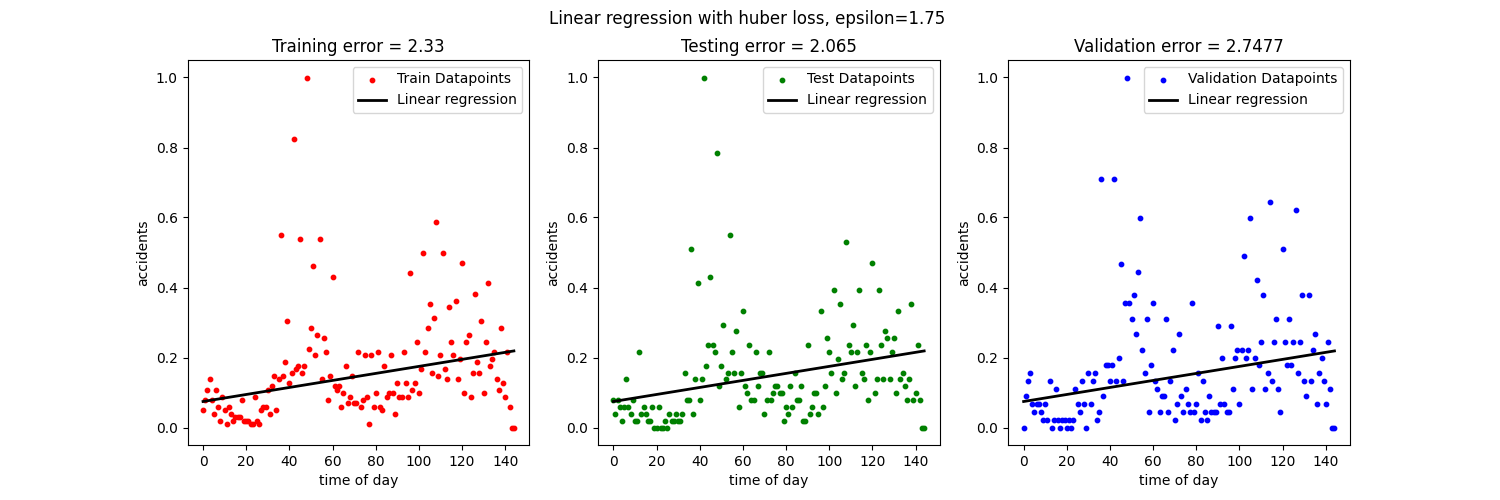
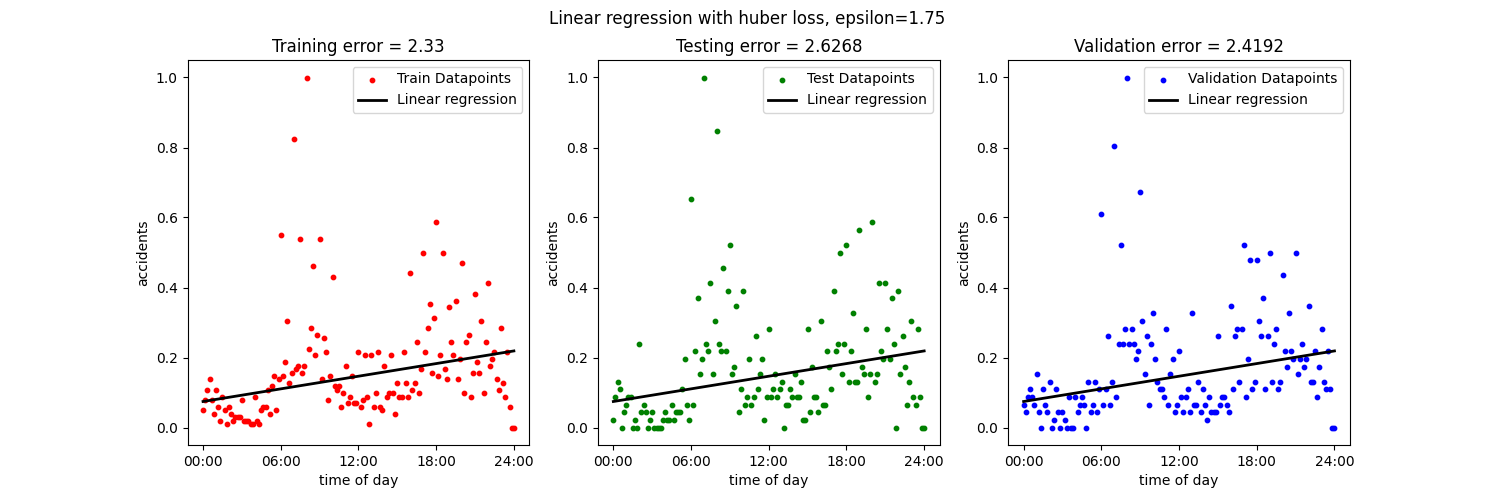
added representative xticks

diff --git a/main.py b/main.py
@@ -51,7 +51,7 @@ def poly_regr(x_tr, y_tr, x_test, y_test, x_val, y_val):
     x_val = x_val.reshape(-1, 1)
 
     # rename x labels
-    positions = (0, 12, 24, 36, 48)
+    positions = (0, 36, 72, 108, 144)
     labels = ("00:00", "06:00", "12:00", "18:00", "24:00")
 
     for degree in degrees:
@@ -83,6 +83,8 @@ def poly_regr(x_tr, y_tr, x_test, y_test, x_val, y_val):
         ax[0].set_xlabel('time of day')  # set the label for the x/y-axis
         ax[0].set_ylabel('accidents')
         ax[0].set_title(f'Training error = {tr_error:.5}')
+        ax[0].set_xticks(positions)
+        ax[0].set_xticklabels(labels)
 
         ax[1].scatter(x_test, y_test, color="g", s=10, label="Test Datapoints")
         ax[1].plot(x_test, y_pred_test, "black", label="Polynomial regression", linewidth=2.0)
@@ -90,6 +92,8 @@ def poly_regr(x_tr, y_tr, x_test, y_test, x_val, y_val):
         ax[1].set_xlabel('time of day')  # set the label for the x/y-axis
         ax[1].set_ylabel('accidents')
         ax[1].set_title(f'Testing error = {test_error:.5}')
+        ax[1].set_xticks(positions)
+        ax[1].set_xticklabels(labels)
 
         ax[2].scatter(x_val, y_val, color="b", s=10, label="Validation Datapoints")
         ax[2].plot(x_val, y_pred_val, "black", label="Polynomial regression", linewidth=2.0)
@@ -97,16 +101,17 @@ def poly_regr(x_tr, y_tr, x_test, y_test, x_val, y_val):
         ax[2].set_xlabel('time of day')  # set the label for the x/y-axis
         ax[2].set_ylabel('accidents')
         ax[2].set_title(f'Validation error = {val_error:.5}')
+        ax[2].set_xticks(positions)
+        ax[2].set_xticklabels(labels)
 
         fig.suptitle(f'Polynomial regression with polynomial degree = {degree}\n')
-        plt.savefig('poly'+str(degree))  # save figs to repository
-        #plt.show()
+        plt.savefig('poly'+str(degree))
+        plt.show()
 
 
 def linear_regr(x_tr, y_tr, x_test, y_test, x_val, y_val):
     """Linear regression training for the dataset"""
 
-    epsilon_values = [1, 2, 3]
     train_errors = []
     test_errors = []
     val_errors = []
@@ -116,13 +121,11 @@ def linear_regr(x_tr, y_tr, x_test, y_test, x_val, y_val):
     x_val = x_val.reshape(-1, 1)
 
     # rename x labels
-    positions = (0, 12, 24, 36, 48)
+    positions = (0, 36, 72, 108, 144)
     labels = ("00:00", "06:00", "12:00", "18:00", "24:00")
-
 
     lin_regr = LinearRegression()
     lin_regr.fit(x_tr, y_tr)
-
     y_pred_train = lin_regr.predict(x_tr)
     tr_error = mean_squared_error(y_tr, y_pred_train) * 100  # dataset has been normalized
 
@@ -143,6 +146,8 @@ def linear_regr(x_tr, y_tr, x_test, y_test, x_val, y_val):
     ax[0].set_xlabel('time of day')  # set the label for the x/y-axis
     ax[0].set_ylabel('accidents')
     ax[0].set_title(f'Training error = {tr_error:.5}')
+    ax[0].set_xticks(positions)
+    ax[0].set_xticklabels(labels)
 
     ax[1].scatter(x_test, y_test, color="g", s=10, label="Test Datapoints")
     ax[1].plot(x_test, y_pred_test, "black", label="Linear regression", linewidth=2.0)
@@ -150,6 +155,8 @@ def linear_regr(x_tr, y_tr, x_test, y_test, x_val, y_val):
     ax[1].set_xlabel('time of day')  # set the label for the x/y-axis
     ax[1].set_ylabel('accidents')
     ax[1].set_title(f'Testing error = {test_error:.5}')
+    ax[1].set_xticks(positions)
+    ax[1].set_xticklabels(labels)
 
     ax[2].scatter(x_val, y_val, color="b", s=10, label="Validation Datapoints")
     ax[2].plot(x_val, y_pred_val, "black", label="Linear regression", linewidth=2.0)
@@ -157,10 +164,12 @@ def linear_regr(x_tr, y_tr, x_test, y_test, x_val, y_val):
     ax[2].set_xlabel('time of day')  # set the label for the x/y-axis
     ax[2].set_ylabel('accidents')
     ax[2].set_title(f'Validation error = {val_error:.5}')
+    ax[2].set_xticks(positions)
+    ax[2].set_xticklabels(labels)
 
-    fig.suptitle(f'Linear regression with least squares loss\n')
+    fig.suptitle(f'Linear regression with ordinary least squares loss\n')
     plt.savefig('linear')
-    #plt.show()
+    plt.show()
 
 
 def huber_regr(x_tr, y_tr, x_test, y_test, x_val, y_val):
@@ -176,10 +185,11 @@ def huber_regr(x_tr, y_tr, x_test, y_test, x_val, y_val):
     x_val = x_val.reshape(-1, 1)
 
     # rename x labels
-    positions = (0, 12, 24, 36, 48)
+    positions = (0, 36, 72, 108, 144)
     labels = ("00:00", "06:00", "12:00", "18:00", "24:00")
 
-    for epsilon in epsilon_values:
+    for i, epsilon in enumerate(epsilon_values):
+        # plt.subplot(len(degrees), 1, i + 1)
 
         lin_regr = LinearRegression()
         lin_regr.fit(x_tr, y_tr)
@@ -207,6 +217,8 @@ def huber_regr(x_tr, y_tr, x_test, y_test, x_val, y_val):
         ax[0].set_xlabel('time of day')  # set the label for the x/y-axis
         ax[0].set_ylabel('accidents')
         ax[0].set_title(f'Training error = {tr_error:.5}')
+        ax[0].set_xticks(positions)
+        ax[0].set_xticklabels(labels)
 
         ax[1].scatter(x_test, y_test, color="g", s=10, label="Test Datapoints")
         ax[1].plot(x_test, y_pred_test, "black", label="Linear regression", linewidth=2.0)
@@ -214,6 +226,8 @@ def huber_regr(x_tr, y_tr, x_test, y_test, x_val, y_val):
         ax[1].set_xlabel('time of day')  # set the label for the x/y-axis
         ax[1].set_ylabel('accidents')
         ax[1].set_title(f'Testing error = {test_error:.5}')
+        ax[1].set_xticks(positions)
+        ax[1].set_xticklabels(labels)
 
         ax[2].scatter(x_val, y_val, color="b", s=10, label="Validation Datapoints")
         ax[2].plot(x_val, y_pred_val, "black", label="Linear regression", linewidth=2.0)
@@ -221,10 +235,12 @@ def huber_regr(x_tr, y_tr, x_test, y_test, x_val, y_val):
         ax[2].set_xlabel('time of day')  # set the label for the x/y-axis
         ax[2].set_ylabel('accidents')
         ax[2].set_title(f'Validation error = {val_error:.5}')
+        ax[2].set_xticks(positions)
+        ax[2].set_xticklabels(labels)
 
         fig.suptitle(f'Linear regression with huber loss, epsilon={epsilon} \n')
-        plt.savefig('huber_eps'+str(float(epsilon))+'.png')
-        #plt.show()
+        plt.savefig('huber_eps'+str(epsilon)+'.png')
+        plt.show()
 
 
 def main():
